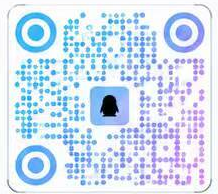
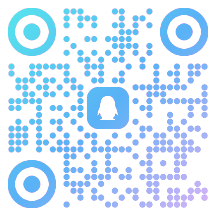
fix: 更新QQ群二维码为新版样式，B站卡片加搜索提示

diff --git a/index.html b/index.html
@@ -22,7 +22,7 @@
 <section class="section honors wrap" id="honors"><div class="section-kicker"><span>03 / BUILT TO COMPETE</span><span>把热爱带上赛场</span></div><div class="section-heading"><h2>一起调过的 bug，<br>一起走过的<span class="blue-text">高光。</span></h2><a class="inline-link" href="#honor-list">查看历年荣誉 <span>↓</span></a></div><div class="competition-feature"><div class="competition-photo"><img src="assets/car-team.webp" alt="同舟学社智能车竞赛队员在比赛现场合影" width="1706" height="1279" loading="lazy"><span>ON THE ROAD / 2026</span></div><div class="competition-story"><span class="mini-label">THE JOURNEY IS OURS</span><h3>不止冲过终点，<br>更是突破自己。</h3><p>从一次次电路调试，到智能车稳定跑完赛道。比赛不是一个人的冲刺，而是整个团队把「再试一次」变成「我们做到了」。</p><div class="competition-stat"><strong>5<small>项</small></strong><span>2021—2022 年智能车竞赛<br>国家一等奖累计</span></div><div class="tags"><span>全国大学生电子设计竞赛</span><span>全国大学生智能汽车竞赛</span></div></div></div><div class="honor-list" id="honor-list"><div class="list-heading"><span>HIGHLIGHTS / 荣誉记录</span><span>2021 — 2026</span></div><details open><summary><b>2026</b><span>新的赛季，继续向前</span><i>+</i></summary><div class="honor-detail"><p><strong>全国大学生电子设计竞赛（省赛）</strong><span>省二等奖 2 项</span></p><p><strong>全国大学生智能汽车竞赛</strong><span>省二等奖 1 项 · 省三等奖 3 项</span></p></div></details><details><summary><b>2025</b><span>专注打磨，每一份努力都有回响</span><i>+</i></summary><div class="honor-detail"><p><strong>全国大学生电子设计竞赛</strong><span>省二等奖 1 项 · 省三等奖 2 项</span></p></div></details><details><summary><b>2024</b><span>电赛与智能车，多线生长</span><i>+</i></summary><div class="honor-detail"><p><strong>全国大学生智能汽车竞赛</strong><span>省一等奖 1 项 · 省二等奖 2 项</span></p><p><strong>辽宁省大学生电子设计大赛</strong><span>省二等奖 1 项 · 省三等奖 2 项</span></p></div></details><details><summary><b>2023</b><span>从积累到突破</span><i>+</i></summary><div class="honor-detail"><p><strong>全国大学生电子设计大赛</strong><span>国家二等奖 1 项 · 省二等奖 3 项</span></p><p><strong>全国大学生智能汽车竞赛</strong><span>省二等奖 2 项</span></p></div></details><details><summary><b>2021—22</b><span>属于同舟的国家级高光</span><i>+</i></summary><div class="honor-detail"><p><strong>2022 全国大学生智能汽车竞赛</strong><span>国家一等奖 2 项</span></p><p><strong>2021 全国大学生智能汽车竞赛</strong><span>国家一等奖 3 项 · 国家二等奖 1 项 · 省一等奖 2 项</span></p></div></details><p class="source-note">荣誉记录依据社团提供的招新海报整理。</p></div></section>
 <section class="people-section section" id="people"><div class="wrap"><div class="section-kicker"><span>04 / TOGETHER, FURTHER</span><span>同舟，不止四年</span></div><div class="people-heading"><span class="quote-mark">“</span><h2>选择了同舟，<br>就是选择了<span>成功。</span></h2><p>这句同舟人常说的话，是鼓励，更是同行的底气。<br>成功不只一种答案，而我们愿意陪你找到自己的那一个。</p></div><div class="alumni-grid"><article><span>01 / 向学术深处</span><h3>华中科技大学 <b>↗</b></h3><p>有学长继续深造，把社团里萌生的好奇，带向更广阔的学术天地。</p><small>继续求知 · 探索不止</small></article><article><span>02 / 向产业一线</span><h3>中国广核集团 <b>↗</b></h3><p>有学长走进中广核，把在实践中磨练的工程思维，带到真实的产业现场。</p><small>学以致用 · 奔赴热爱</small></article><article class="your-story"><span>03 / 向你的未来</span><h3>下一段故事，是你。 <b>✳</b></h3><p>升学、就业、竞赛、创造。前辈的足迹是参考，而不是你人生的标准答案。</p><a href="#join">从同舟出发 <span>↗</span></a></article></div></div></section>
 <section class="section life wrap"><div class="section-kicker"><span>05 / LIFE AT TONGZHOU</span><span>认真做事，也认真快乐</span></div><div class="section-heading"><h2>有电路，有队友，<br>也有<span class="blue-text">我们的日常。</span></h2><p>在这里，遇见的不只是技术。<br>还有一起焊板、写代码、分享灵感的人。</p></div><div class="gallery"><button class="gallery-card gallery-large" data-photo="assets/workshop.webp" data-caption="把热爱分享出去 · 社团活动现场" aria-label="放大社团活动照片"><img src="assets/workshop.webp" alt="同舟学社成员在活动现场展示电子设计资料和作品" width="1800" height="1200" loading="lazy"><span><small>01 / SHARE</small><b>把热爱，分享出去。</b><i>↗</i></span></button><button class="gallery-card" data-photo="assets/competition.webp" data-caption="从实验室到赛场 · 2026 TI杯电子设计竞赛" aria-label="放大电子设计竞赛照片"><img src="assets/competition.webp" alt="同舟学社成员在2026 TI杯电子设计竞赛现场合影" width="1116" height="919" loading="lazy"><span><small>02 / CHALLENGE</small><b>从实验室，到赛场。</b><i>↗</i></span></button></div></section>
-<section class="join-section section" id="join"><div class="wrap"><div class="section-kicker"><span>06 / YOUR NEXT CHAPTER</span><span><i class="status-dot"></i> 2026 招新</span></div><div class="join-grid"><div class="join-copy"><div class="mini-label">ALL CURIOUS MINDS WELCOME.</div><h2>你的好奇心，<br>该<span>通电了。</span><b>↗</b></h2><p>不限专业，不怕零基础。<br>如果你也对电子硬件、嵌入式开发和科创竞赛心动，<br>欢迎上舟，一起把想法变成现实。</p><div class="join-location"><span>⌖</span><div><small>线下见面</small><strong>大连海事大学 · 船电楼 B201</strong></div></div><div class="join-links"><button class="text-link" id="poster-open">查看完整招新海报 ↗</button><a href="assets/poster.png" download="同舟学社招新海报.png">下载海报 ↓</a></div></div><div class="qr-grid"><article class="qr-card"><span class="qr-category">JOIN THE CREW <b>↗</b></span><img src="assets/qq-qr.png" alt="2026同舟学社QQ群二维码，群号242947621" width="218" height="194" loading="lazy"><h3>加入招新群</h3><p>2026 同舟学社招新群</p><button class="copy-button" id="copy-qq">242947621 <span>复制群号 ⧉</span></button><a href="assets/qq-qr.png" download="同舟学社招新群二维码.png">保存二维码 ↓</a></article><article class="qr-card"><span class="qr-category">STAY INSPIRED <b>↗</b></span><img src="assets/bilibili-qr.png" alt="同舟学社B站账号二维码，使用哔哩哔哩扫码关注" width="203" height="152" loading="lazy"><h3>在 B 站，遇见同舟</h3><p>扫码看看我们的另一面</p><span class="bilibili-word">bilibili</span><a href="assets/bilibili-qr.png" download="同舟学社B站二维码.png">保存二维码 ↓</a></article></div></div><div class="faq"><h3>上舟之前，你可能想问</h3><details><summary>零基础，也可以加入吗？<i>+</i></summary><p>当然可以。不限专业，只要对电子硬件、嵌入式开发或科创竞赛有热情，就欢迎加入。从基础认识到实际动手，一步一步学习。</p></details><details><summary>除了比赛，平时还有什么活动？<i>+</i></summary><p>我们会进行硬件实训、技术分享和联合项目开发。一起焊板、写代码、排查问题，把课内知识用到课外作品中。</p></details><details><summary>如何了解招新安排？<i>+</i></summary><p>扫描上方二维码，或在 QQ 搜索群号 242947621 加入 2026 招新群。具体招新时间、活动安排以群内通知为准。</p></details></div></div></section>
+<section class="join-section section" id="join"><div class="wrap"><div class="section-kicker"><span>06 / YOUR NEXT CHAPTER</span><span><i class="status-dot"></i> 2026 招新</span></div><div class="join-grid"><div class="join-copy"><div class="mini-label">ALL CURIOUS MINDS WELCOME.</div><h2>你的好奇心，<br>该<span>通电了。</span><b>↗</b></h2><p>不限专业，不怕零基础。<br>如果你也对电子硬件、嵌入式开发和科创竞赛心动，<br>欢迎上舟，一起把想法变成现实。</p><div class="join-location"><span>⌖</span><div><small>线下见面</small><strong>大连海事大学 · 船电楼 B201</strong></div></div><div class="join-links"><button class="text-link" id="poster-open">查看完整招新海报 ↗</button><a href="assets/poster.png" download="同舟学社招新海报.png">下载海报 ↓</a></div></div><div class="qr-grid"><article class="qr-card"><span class="qr-category">JOIN THE CREW <b>↗</b></span><img src="assets/qq-qr.png" alt="2026同舟学社QQ群二维码，群号242947621" width="216" height="216" loading="lazy"><h3>加入招新群</h3><p>2026 同舟学社招新群</p><button class="copy-button" id="copy-qq">242947621 <span>复制群号 ⧉</span></button><a href="assets/qq-qr.png" download="同舟学社招新群二维码.png">保存二维码 ↓</a></article><article class="qr-card"><span class="qr-category">STAY INSPIRED <b>↗</b></span><img src="assets/bilibili-qr.png" alt="同舟学社B站账号二维码，使用哔哩哔哩扫码关注" width="203" height="152" loading="lazy"><h3>在 B 站，遇见同舟</h3><p>扫码看看我们的另一面<br>或直接搜索「同舟学社」</p><span class="bilibili-word">bilibili</span><a href="assets/bilibili-qr.png" download="同舟学社B站二维码.png">保存二维码 ↓</a></article></div></div><div class="faq"><h3>上舟之前，你可能想问</h3><details><summary>零基础，也可以加入吗？<i>+</i></summary><p>当然可以。不限专业，只要对电子硬件、嵌入式开发或科创竞赛有热情，就欢迎加入。从基础认识到实际动手，一步一步学习。</p></details><details><summary>除了比赛，平时还有什么活动？<i>+</i></summary><p>我们会进行硬件实训、技术分享和联合项目开发。一起焊板、写代码、排查问题，把课内知识用到课外作品中。</p></details><details><summary>如何了解招新安排？<i>+</i></summary><p>扫描上方二维码，或在 QQ 搜索群号 242947621 加入 2026 招新群。具体招新时间、活动安排以群内通知为准。</p></details></div></div></section>
 <section class="partners section" id="partners"><div class="wrap"><div class="section-kicker"><span>07 / PARTNERS & THANKS</span><span>他们让热爱更轻</span></div><div class="section-heading"><h2>好伙伴，<br>让创造<span class="blue-text">更轻。</span></h2><p>工具与资源的支持，<br>让同舟人把时间花在真正重要的事上。</p></div><div class="partner-grid"><article class="partner-card"><div><span class="mini-label">JLC · 嘉立创</span><h3>从图纸到电路板，<br>只隔一个快递。</h3><p>同舟人的电路板，大多出自嘉立创的产线：在嘉立创EDA画好板子，免费打板，几天后真板就寄到手里。感谢嘉立创长期支持高校科创，把打样门槛降到几乎为零——往大了说，他们是在培养中国工程师。</p><div class="tags"><span>免费打板</span><span>嘉立创EDA</span><span>PCB 快速打样</span></div></div><div class="partner-links"><a href="https://www.jlc.com" target="_blank" rel="noopener">嘉立创官网 ↗</a><a href="https://lceda.cn" target="_blank" rel="noopener">嘉立创EDA ↗</a></div></article><article class="partner-card trae-card"><div><span class="mini-label">TRAE · 字节跳动</span><h3>AI 时代的<br>新工具箱。</h3><p>感谢 TRAE（字节跳动旗下 AI IDE）通过高校扶持计划支持同舟学社：注册即送积分，大学生认证额外加码，每月再得 500 积分，最高 6500 积分一次领齐。这个网站的开发过程，也有 AI 工具的一份助攻。</p><div class="tags"><span>AI IDE</span><span>高校扶持计划</span><span>学生专属福利</span></div></div><button class="partner-poster" data-photo="assets/trae-poster.webp" data-caption="TRAE × 同舟学社 · 高校扶持计划：最高 6500 积分 Token 学生福利，扫码即领" aria-label="放大查看 TRAE 高校扶持计划海报"><img src="assets/trae-poster.webp" alt="TRAE × 同舟学社高校扶持计划海报，扫码领取最高 6500 积分 Token 学生福利" width="900" height="2250" loading="lazy"><span>查看海报 <b>↗</b></span></button></article></div></div></section>
 </main>
 <footer class="footer"><div class="wrap footer-top"><a class="brand" href="#home"><img src="assets/logo.png" alt="" width="42" height="42"><span>同舟学社<small>TONGZHOU TECH SOCIETY</small></span></a><p>同舟悟道，慧赢深蓝。</p><a href="#home">回到顶部 ↑</a></div><div class="wrap footer-bottom"><span>© 2026 同舟学社 · 大连海事大学</span><span class="footer-thanks">THANKS TO JLC · TRAE</span><span>WITH CURIOSITY. WITH COURAGE. TOGETHER.</span></div></footer>
